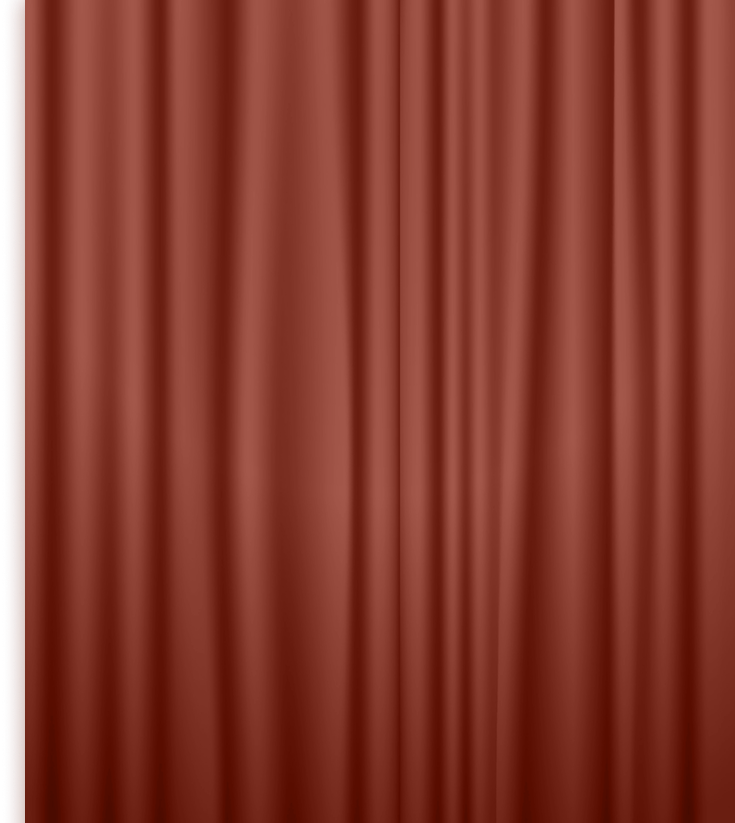
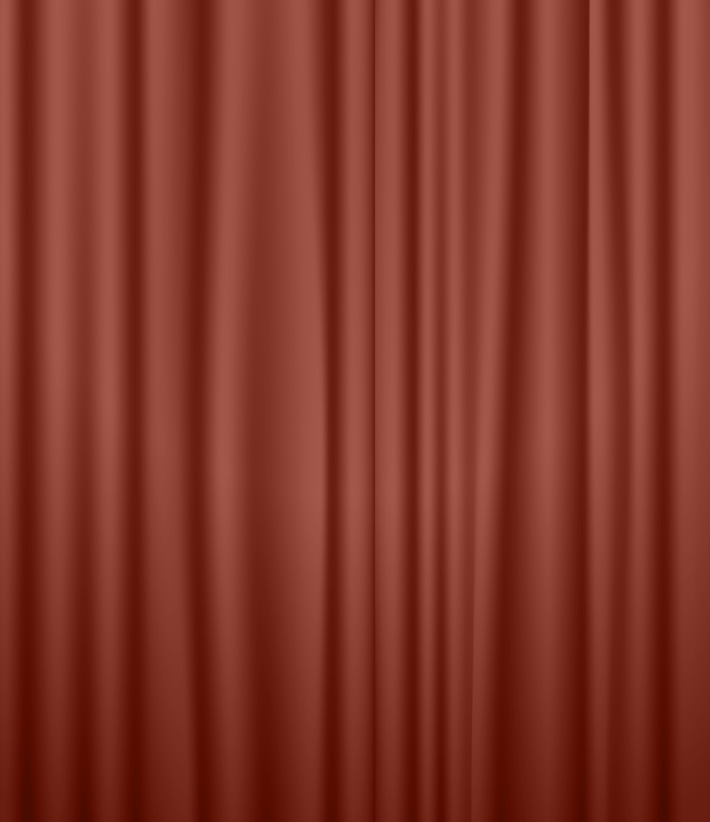
шторки

Changed region(s): [[0.0, 0.0, 0.3718, 1.0], [0.4338, 0.0, 0.6507, 1.0], [0.8056, 0.0, 0.8366, 0.5474]]

diff --git a/resources/css/app.css b/resources/css/app.css
@@ -30,4 +30,57 @@
   
 } */
 
+@keyframes move-left {
+  from{
+    transform: translateX(0);
+  }
+  to{
+    transform: translateX(-100%);
+  }
+}
 
+.theater:hover .curtain1 {
+  animation-play-state: running;
+}
+
+.curtain1 {
+  animation: move-left 5s 1 backwards;
+  animation-play-state: paused;
+}
+
+
+@keyframes move-right {
+  from{
+    transform: translateX(0);
+  }
+  to{
+    transform: translateX(100%);
+  }
+}
+
+.theater:hover .curtain2 {
+  animation-play-state: running;
+}
+
+.curtain2 {
+  animation: move-right 5s 1 backwards;
+  animation-play-state: paused;
+}
+
+
+@keyframes hiden-show {
+  from{
+   opacity: 1;
+  }
+  to{
+    opacity: 0;
+  }
+}
+
+.theater:hover .text-show {
+ animation-fill-mode: forwards;
+}
+
+.text-show {
+ animation: hiden-show 0.3s forwards;
+}

diff --git a/resources/views/sections/reviews.blade.php b/resources/views/sections/reviews.blade.php
@@ -1,0 +1,34 @@
+<!DOCTYPE html>
+<html lang="en">
+
+<head>
+    <meta charset="UTF-8">
+    <meta name="viewport" content="width=device-width, initial-scale=1.0">
+    <title>Document</title>
+</head>
+
+<body>
+    <div>
+        <div>
+            <h2>ОТЗЫВЫ</h2>
+            <div>
+                <h3>Мы собрали не просто слова,
+                    а настоящие впечатления гостей</h3>
+                <p>В виде фотографий рукописных отзывов. Каждый лист хранит живые эмоции, мысли и атмосферу нашего пространства.</p>
+            </div>
+
+        </div>
+        <div>
+            <div class="img">
+
+            </div>
+            <div>
+                <button class="bg-red"><img src="img/Arrow 2.svg" alt=""></button>
+                <button class="bg-red"><img src="img/Arrow 1.svg" alt=""></button>
+            </div>
+        </div>
+
+    </div>
+</body>
+
+</html>

diff --git a/resources/views/sections/show.blade.php b/resources/views/sections/show.blade.php
@@ -9,23 +9,27 @@
 </head>
 
 <body class="flex-col">
-    <div class="grid-row">
-        <img class=" mb-[135px] w-full" src="img/coving.png" alt="падуга">
-        
-    <div class="content text-center" >
-        <h2 class="text-[64px] text-red font-title font-bold mb-[25px] ">НАШЕ ШОУ</h2>
-        <p class="text-[20px] text-gray font-main mb-[55px]">Информация о шоу скоро появится.<br>Следите за анонсами в наших соцсетях и на этом месте.</p>
-        <button class="text-[20px] text-white font-main bg-red rounded-[50px] px-[69px] py-[10px] max-w-[350px] ">Перейти в ВК-видео</button>
+    <div class="theater grid-row relative overflow-hidden">
+        <img class=" relative z-50 mb-[135px] w-full" src="img/coving.png" alt="падуга">
+
+        <div class="content text-center mb-[280px] mt-[280px]">
+            <h2 class="text-[64px] text-red font-title font-bold mb-[25px] ">НАШЕ ШОУ</h2>
+            <p class="text-[20px] text-gray font-main mb-[55px]">Информация о шоу скоро появится.<br>Следите за анонсами
+                в наших соцсетях и на этом месте.</p>
+            <button
+                class="text-[20px] text-white font-main bg-red rounded-[50px] px-[69px] py-[10px] max-w-[350px] ">Перейти
+                в ВК-видео</button>
+        </div>
+
+        <div class=" h-[820px] w-full overflow-hidden absolute top-0 left-0 w-full h-full">
+            <h2 class="text-show absolute inset-0 z-10 flex items-center justify-center text-[64px] text-white font-title font-bold">
+                НАШЕ ШОУ</h2>
+            <img class="curtain1 absolute top-0 left-0 h-full w-1/2 object-cover" src="img/l_curtains.png" alt="левая штора">
+            <img class=" curtain2 absolute top-0 right-0 h-full w-1/2 object-cover" src="img/r_curtains.png" alt="правая штора">
+        </div>
     </div>
 
-    <div class="relative h-[820px] overflow-hidden">
-        <h2 class="text-[64px] text-white font-title font-bold mb-[25px] text-center">НАШЕ ШОУ</h2>
-        <img class="absolute top-0 left-0 h-full w-1/2 object-cover" src="img/l_curtains.png" alt="левая штора">
-        <img class="absolute top-0 right-0 h-full w-1/2 object-cover" src="img/r_curtains.png" alt="правая штора">
-    </div>
-</div>
-   
-     
+
 
 </body>
 